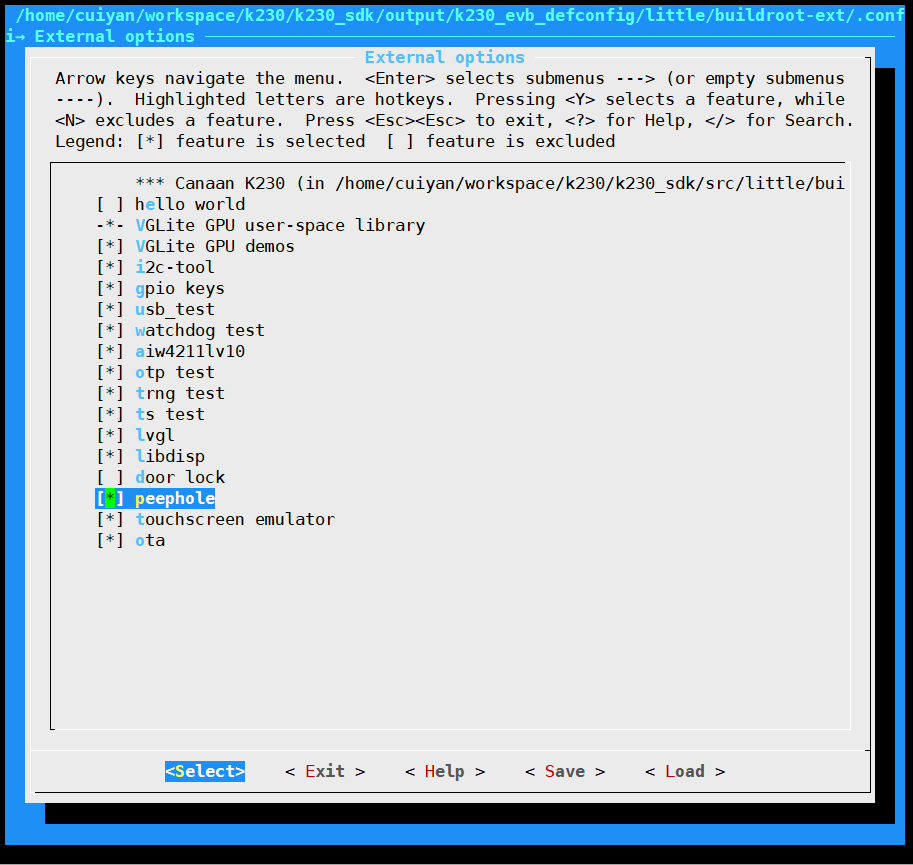
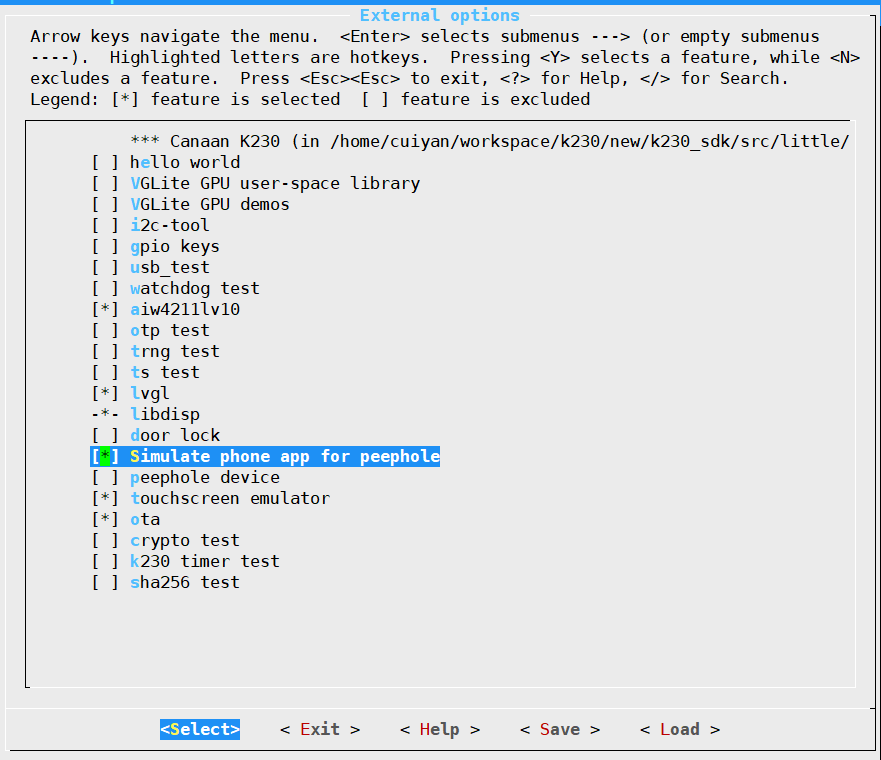
peephole doc

Changed region(s): [[0.0, 0.0, 1.0, 1.0]]

diff --git a/zh/02_applications/business_poc/K230_场景实战_猫眼.md b/zh/02_applications/business_poc/K230_场景实战_猫眼.md
@@ -30,21 +30,40 @@
 - K230-USIP-LP3-EVB-V1.0/K230-USIP-LP3-EVB-V1.1
 - 配套的LCD模组
 - K230-USIP-IMX335-SENSOR-V1.1模组
+- 外置音频子板
 
-远程猫眼需要两套以上设备，一套作为猫眼设备，一套模拟手机设备。
+除外置音频子板外，远程猫眼需要两套以上设备，一套作为猫眼设备，一套模拟手机设备。音频子板用于猫眼设备端。
 
 ## 概述
 
-猫眼程序作为一个POC项目，提供给客户如何使用lvgl、大小核通信、多媒体pipeline及ai等功能的参考，程序主要两大部分：
+猫眼程序作为一个POC项目，提供给客户如何使用lvgl、大小核通信、网络通信
+多媒体pipeline及ai等功能的参考。
+
+程序的主要功能：
+
+1. 模拟两种唤醒模式：PIR唤醒和门铃唤醒。
+
+   - PIR唤醒：
+     - 猫眼设备端向手机端发送PIR唤醒消息以及一张抓拍图像，并存储抓拍图像。
+     - 手机端收到PIR唤醒消息后，会在UI界面弹框提示收到PIR唤醒消息。
+   - 门铃唤醒：
+     - 猫眼设备向手机端发送门铃唤醒消息，向手机端推送视频流，并存储视频。
+
+1. rtsp网络服务以及rpc服务。
+1. 大小核事件、数据通信。
+1. 图像抓拍、录像以及回放。
+1. GUI显示。
+
+程序主要两大部分：
 
 - 猫眼设备侧程序：包括大核程序和小核程序两个
   1. 大核程序
-  主要完成ai人形检测功能，并在检测到人长期逗留后，抓拍人形并存盘
+  主要完成ai人形检测、视频/图像编码、音频输入及编码、音频解码及输出功能。
   1. 小核程序
-  主要完成音视频的推流和音频的播放，和手机设备交互实现视频对讲功能
+  主要完成UI界面控制、音视频的推流、存盘、回放、与手机设备交互实现视频对讲功能。
 
 - 手机设备侧程序：只包括小核程序
-  小核侧程序主要完成通过UI界面控制视频对讲的开始、结束、变声以及存盘功能，和猫眼设备交互实现视频对讲功能
+  小核侧程序主要完成通过UI界面控制视频对讲的开始、结束、变声功能，和猫眼设备交互实现视频对讲功能。
 
 ### 源码位置
 
@@ -52,143 +71,257 @@
 
 ```sh
 .
+├── app
+│   ├── data
+│   │   └── doorbell.g711u
+│   ├── main.cpp
+│   ├── my_app.cpp
+│   ├── my_app.h
+│   ├── my_comm_server.h
+│   └── util.h
+├── build
 ├── CMakeLists.txt
-├── include
-│   ├── ai_base.h
-│   ├── person_detect.h
-│   ├── scoped_timing.h
-│   ├── utils.h
-│   └── vi_vo.h
-├── main.cpp
-└── src
-    ├── ai_base.cpp
-    ├── person_detect.cpp
-    └── utils.cpp
+├── comm_server
+│   ├── include
+│   │   ├── comm_msg.h
+│   │   └── comm_server.h
+│   └── src
+│       ├── avdata_reader.cpp
+│       ├── avdata_reader.h
+│       ├── avdata_writer.cpp
+│       ├── avdata_writer.h
+│       ├── comm_server.cpp
+│       ├── data_fifo_reader.cpp
+│       ├── data_fifo_reader.h
+│       ├── data_fifo_writer.cpp
+│       ├── data_fifo_writer.h
+│       ├── data_shm.h
+│       ├── event_writer.cpp
+│       └── event_writer.h
+├── media
+│   ├── include
+│   │   └── media.h
+│   └── src
+│       └── media.cpp
+└── person_detect
+    ├── include
+    │   ├── ai_base.h
+    │   ├── person_detect.h
+    │   └── person_detect_utils.h
+    └── src
+        ├── ai_base.cpp
+        ├── person_detect.cpp
+        └── person_detect_utils.cpp
+
 ```
 
-- 猫眼设备小核程序源码路径位于 `k230_sdk/src/reference/business_poc/peephole/common`，目录结构如下：
-
-```sh
-.
-├── caller_audio
-│   └── doorbell.g711u
-├── main.cpp
-├── Makefile
-├── media.cpp
-└── media.h
-```
-
-- 模拟手机设备程序源码路径位于`k230_sdk/src/reference/business_poc/peephole/little`，目录结构如下：
+- 猫眼设备小核程序源码路径位于 `k230_sdk/src/reference/business_poc/peephole/peephole_device`，目录结构如下：//TODO:
 
 ```sh
 .
 ├── Config.in
 ├── src
 │   ├── CMakeLists.txt
-│   └── ui
-│       ├── CMakeLists.txt
-│       ├── data
-│       │   └── img
-│       │       ├── intercom.png
-│       │       ├── record.png
-│       │       ├── shutdown.png
-│       │       └── voice_change.png
-│       ├── demo
-│       │   └── main.c
-│       ├── lvgl_port
-│       │   ├── CMakeLists.txt
-│       │   ├── k230
-│       │   │   ├── buf_mgt.cpp
-│       │   │   ├── buf_mgt.hpp
-│       │   │   ├── CMakeLists.txt
-│       │   │   ├── lv_port_disp.cpp
-│       │   │   └── lv_port_indev.c
-│       │   ├── lv_conf_demo.h
-│       │   ├── lv_conf.h
-│       │   └── lv_port.h
-│       └── src
-│           ├── db_proc.c
-│           ├── db_proc.h
-│           ├── intercom.cpp
-│           ├── intercom.h
-│           ├── main.c
-│           ├── media.cpp
-│           ├── media.h
-│           ├── msg_proc.cpp
-│           ├── msg_proc.h
-│           ├── scr_main.c
-│           ├── scr_signup.c
-│           ├── sdk_autoconf.h
-│           ├── ui_common.h
-│           ├── vo_cfg.c
-│           └── vo_cfg.h
+│   ├── data
+│   │   └── img
+│   │       ├── intercom_gray.png
+│   │       ├── intercom.png
+│   │       ├── play.png
+│   │       ├── shutdown.png
+│   │       ├── voice_change_gray.png
+│   │       └── voice_change.png
+│   ├── lvgl_port
+│   │   ├── CMakeLists.txt
+│   │   ├── k230
+│   │   │   ├── buf_mgt.cpp
+│   │   │   ├── buf_mgt.hpp
+│   │   │   ├── CMakeLists.txt
+│   │   │   ├── lv_port_disp.cpp
+│   │   │   └── lv_port_indev.c
+│   │   ├── lv_conf_demo.h
+│   │   ├── lv_conf.h
+│   │   └── lv_port.h
+│   └── src
+│       ├── assets
+│       │   ├── img_lv_btn_list_pause.c
+│       │   ├── img_lv_btn_list_play.c
+│       │   ├── img_lv_btn_loop.c
+│       │   ├── img_lv_btn_next.c
+│       │   ├── img_lv_btn_pause.c
+│       │   ├── img_lv_btn_play.c
+│       │   ├── img_lv_btn_prev.c
+│       │   └── img_lv_slider_knob.c
+│       ├── audio_talk.c
+│       ├── audio_talk.h
+│       ├── comm
+│       │   ├── include
+│       │   │   ├── comm_client.h
+│       │   │   ├── comm_msg.h
+│       │   │   ├── comm_rpc_msg.h
+│       │   │   └── comm_rpc_server.h
+│       │   └── src
+│       │       ├── avdata_reader.cpp
+│       │       ├── avdata_reader.h
+│       │       ├── avdata_writer.cpp
+│       │       ├── avdata_writer.h
+│       │       ├── comm_client.cpp
+│       │       ├── comm_rpc_server.cpp
+│       │       ├── data_fifo_reader.cpp
+│       │       ├── data_fifo_reader.h
+│       │       ├── data_fifo_writer.cpp
+│       │       ├── data_fifo_writer.h
+│       │       ├── data_shm.cpp
+│       │       ├── data_shm.h
+│       │       ├── event_reader.cpp
+│       │       └── event_reader.h
+│       ├── intercom.h
+│       ├── lv_picture_files.c
+│       ├── lv_picture_files.h
+│       ├── lv_record_files.c
+│       ├── lv_record_files.h
+│       ├── main.cpp
+│       ├── my_app.cpp
+│       ├── my_app.h
+│       ├── my_muxer.cpp
+│       ├── my_muxer.h
+│       ├── scr_main.cpp
+│       ├── scr_playback.cpp
+│       ├── scr_playback_ctrl.cpp
+│       ├── scr_playback_list.cpp
+│       ├── scr_playback_picture_ctrl.cpp
+│       ├── scr_playback_picture_list.cpp
+│       ├── ui_common.h
+│       ├── vo_cfg.cpp
+│       └── vo_cfg.h
 └── src.mk
+```
 
+- 模拟手机设备程序源码路径位于`k230_sdk/src/reference/business_poc/peephole/peephole_phone`，目录结构如下：
+
+```sh
+.
+├── Config.in
+├── src
+│   ├── CMakeLists.txt
+│   ├── data
+│   │   └── img
+│   │       ├── intercom.png
+│   │       ├── record.png
+│   │       ├── shutdown.png
+│   │       └── voice_change.png
+│   ├── lvgl_port
+│   │   ├── CMakeLists.txt
+│   │   ├── k230
+│   │   │   ├── buf_mgt.cpp
+│   │   │   ├── buf_mgt.hpp
+│   │   │   ├── CMakeLists.txt
+│   │   │   ├── lv_port_disp.cpp
+│   │   │   └── lv_port_indev.c
+│   │   ├── lv_conf_demo.h
+│   │   ├── lv_conf.h
+│   │   └── lv_port.h
+│   └── src
+│       ├── comm_rpc_client.cpp
+│       ├── comm_rpc_client.h
+│       ├── comm_rpc_msg.h
+│       ├── main.cpp
+│       ├── media.cpp
+│       ├── media.h
+│       ├── my_app.cpp
+│       ├── my_app.h
+│       ├── my_app_impl.cpp
+│       ├── my_app_impl.h
+│       ├── scr_main.cpp
+│       ├── ui_common.h
+│       ├── vo_cfg.cpp
+│       └── vo_cfg.h
+└── src.mk
 ```
 
 ### 编译程序
 
 #### 猫眼设备
 
-1. 大核侧程序编译：在 `k230_sdk` 目录下面执行 `make poc`，编译完成后，在 `k230_sdk/src/reference/business_poc/peephole/big/out/` 下面会生成大核侧可执行程序 `person_snap.elf`
+猫眼设备端需要用用猫眼设备配置脚本进行编译，编译命令为`make CONF=k230_evb_peephole_device_defconfig`。
+**需要注意，配置过CONF后，后面的编译命令即使不配置CONF，也会用上一次的CONF进行编译，编译产物在`k230_sdk/output/${CONF}`目录下**
+默认的CONF为`k230_evb_defconfig`。
+生成的镜像在`output/k230_evb_peephole_device_defconfig/images/sysimage-sdcard.img.gz`，烧录该镜像，启动后自动运行猫眼设备端。
 
-1. 小核侧程序编译：在 `k230_sdk` 目录下面执行 `make cdk-user` ，编译完成后，在 `k230_sdk/src/common/cdk/user/out/little` 下会生成小核侧可执行程序 `peephole_dev` 。
+单独编译猫眼设备端程序的方法：
+
+1. 大核侧程序编译：在 `k230_sdk` 目录下面执行 `make peephole`，编译完成后，在 `k230_sdk/src/reference/business_poc/peephole/big/out/` 下面会生成大核侧可执行程序 `peephole_dev.elf`
+
+1. 小核侧程序编译：在 `k230_sdk` 目录下面执行 `make CONF=k230_evb_peephole_device_defconfig buildroot` ，编译完成后，在 `k230_sdk/output/k230_evb_peephole_device_defconfig/little/buildroot-ext/target/app/` 下会生成小核侧可执行程序 `peephole_device`目录 。
 
 #### 模拟手机设备
 
-小核程序编译：在`k230_sdk`目录下执行`make buildroot-menuconfig`，进入`External options`选项，选中`lvgl`、`libdisp`和`peephole`。
+小核程序编译：在`k230_sdk`目录下执行`make buildroot-menuconfig`，进入`External options`选项，选中`Simulate phone app for peephole`。
 ![peephole_menuconfig](./images/peephole_menuconfig.png)
 
 保存配置并退出图形配置界面，依次执行`make buildroot-savedefconfig`和`make buildroot`命令，
-在`k230_sdk/output/k230_evb_defconfig/little/buildroot-ext/target/app`目录下生成`peephole`目录
+在`k230_sdk/output/k230_evb_defconfig/little/buildroot-ext/target/app`目录下生成`peephole_phone`目录
 
 ## 运行程序
 
 ### 运行猫眼设备端程序
 
-1. 拷贝大核侧程序到开发板
-将 `k230_sdk/src/reference/business_poc/peephole/big/out/` 下生成的大核侧可执行程序 `person_snap.elf` 拷贝到开发板小核 `/sharefs/app` 下
+猫眼设备端如下图所示，可以通过两种方式启动。
 
-1. 拷贝人形检测模型到开发板
-将 `k230_sdk/src/big/kmodel/peephole` 下面人形检测模型 `person_detect_yolov5n.kmodel` 拷贝到开发板小核 `/sharefs/app` 下
+- 方式一：将拨码开关拨到`ON`，此方式模拟PIR唤醒。
+  - 设备会进行抓拍，并存储。
+- 方式二：长按按键，此方式模拟门铃唤醒。
+  - 内置codec的耳机输出门铃音效，外置codec的耳机输出语音对讲声音。
 
-1. 执行大核程序
-在开发板大核侧 `/sharefs/app` 下执行 `./person_snap.elf person_detect_yolov5n.kmodel`
+![peephole_device](./images/peephole_device.png)
 
-1. 大核程序启动以后，启动小核程序
-在开发板小核侧 `/mnt` 下，执行 `./peephole_dev`，启动小核程序，此时开始推流，在手机设备侧可通过按键开启对讲
+猫眼镜像为自启动模式，烧录猫眼镜像后，需要分别将J1的1、2引脚，13、14引脚，9、15引脚两两短接，如下图所示。
+
+![pmu connection](./images/pmu_connection.jpg)
 
 ### 运行模拟手机端
 
-1. 将`k230_sdk/output/k230_evb_defconfig/little/buildroot-ext/target/app/peephole`拷贝到小核`/app/`目录下。
-1. 将`k230_sdk/output/k230_evb_defconfig/images/little-core/rootfs/usr/lib/`目录下的`libdisp.so`、`liblvgl.so`、`liblv_drivers.so`拷贝到小核`lib`目录下。
-1. 执行 `/app/peephole/ui/ui rtsp://ip:8554/BackChannelTest`，开始运行手机端程序。需要注意这里的rtsp地址是猫眼设备小核程序运行后获得的
+1. 将`k230_sdk/output/k230_evb_defconfig/little/buildroot-ext/target/app/peephole_phone`拷贝到小核`/app/`目录下。
+1. 将以下动态库拷贝到小核`lib`目录下
 
-### 模拟手机端存盘回放
+   - `k230_sdk/output/k230_evb_defconfig/little/buildroot-ext/build/libdisp/`目录下的`libdisp.so`
+   - `k230_sdk/output/k230_evb_defconfig/little/buildroot-ext/build/peephole_phone/lvgl_port/`目录下的`liblvgl.so`
+   - `k230_sdk/output/k230_evb_defconfig/little/buildroot-ext/build/peephole_phone/lvgl_port/k230/`目录下的`liblv_drivers.so`拷贝到小核`lib`目录下。
 
-在小核/mnt目录下执行`./sample_kplayer test.mp4`，屏幕和耳机会输出对讲录像音视频。
+1. 大核执行`/sharefs/app/sample_sys_init.elf`
+1. 执行 `/app/peephole_phone/peephole_phone ipaddr`，开始运行手机端程序，这里的ipaddr为猫眼设备端的ip地址。
 
 ### 功能演示
 
-- 猫眼设备
+#### 门铃模式
 
-1. 大核程序
-大核程序开始执行后，会开始检测人形，当连续检测到人形超过10s（模拟人员逗留）时，显示屏会显示人形框，同时保存当前图像为jpg图片，如下图：![peephole_detect](./images/person_detect.jpg)
-对于抓拍下来的jpg图片，暂时需要拷贝到pc上查看
+猫眼设备
+通过长按按键的方式启动，启动显示的UI界面如下：
 
-1. 小核程序
-在开发板上插入耳机，小核程序开始执行后，可以首先听到门铃声，同时小核会打印出形如 `rtsp://ip:8554/BackChannelTest` 的url地址，手机设备使用此url开始与猫眼设备进行视频对讲
+![peephole_device_ui_main](./images/peephole_device_ui_main.png)
 
-- 模拟手机设备
+下方的四个按键，从左到右依次为：
 
-模拟手机设备端程序运行后，屏幕显示如下界面:![peephole_ui](./images/peephole_ui.jpg)
+- 第一个按键控制对讲使能/取消，仅用于本地门铃对讲。程序运行起来第一次按下后，对讲开始。
+- 第二个按键控制变声使能/取消，仅用于本地门铃对讲，默认不变声。
+- 第三个按键为回放，用于播放本地存储的视频和图像。(注意本地对讲时，需要先取消对讲再进行回放)
+- 第四个按键为关机。
 
-屏幕下方的四个按键为手机设备功能控制按键，从左往右四个按键介绍如下：
+对讲按钮上方显示的为本地IP地址。
 
-- 第一个按键控制对讲使能/取消，程序运行起来第一次按下后，对讲开始。
+当门铃唤醒猫眼设备后，屏幕显示本地摄像头采集的视频，可以通过两种方式进行视频对讲。一种为本地门铃对讲，另外一种为远程门铃对讲。
 
-- 第二个按键控制变声使能/取消，默认为变声
+##### 本地门铃语音对讲
 
-- 第三个按键控制存盘使能/取消，默认为存盘。
+点击猫眼设备端的对讲按键，开始门内外对讲。将耳机连接到猫眼设备的内置codec和外置codec的耳机接口，可以听到对端声音。
 
-- 第四个按键为退出程序。
+##### 远程门铃可视对讲
+
+远程对讲，需要另外一块开发板运行手机端手机端程序。手机端UI界面如下：
+
+![peephole_phone_ui](./images/peephole_phone_ui.png)
+
+下方的四个按键，从左到右依次为：
+
+- 第一个按键控制对讲使能/取消，程序运行起来后，会出现唤醒模式的弹框。此后通过此按键触发对讲，第一次按下后，对讲开始。
+- 第二个按键控制变声使能/取消，默认不变声。
+- 第三个按键为关机。
